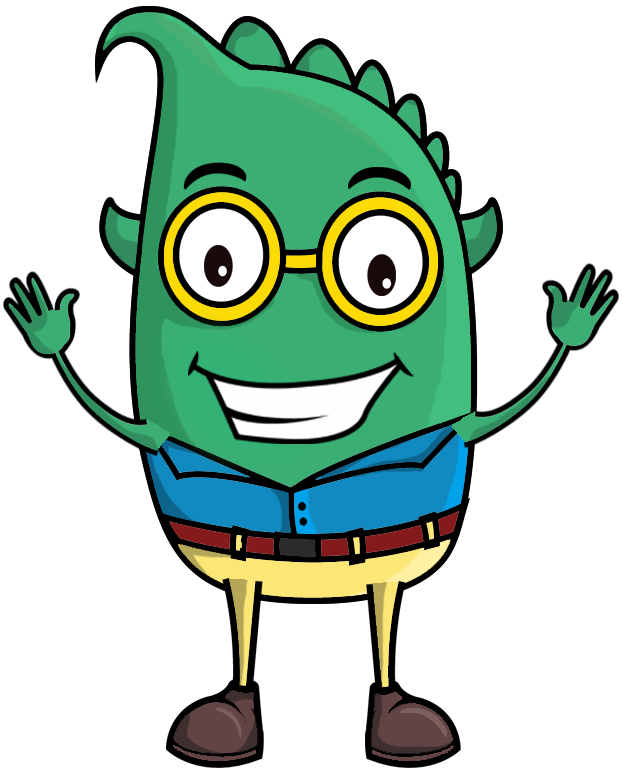
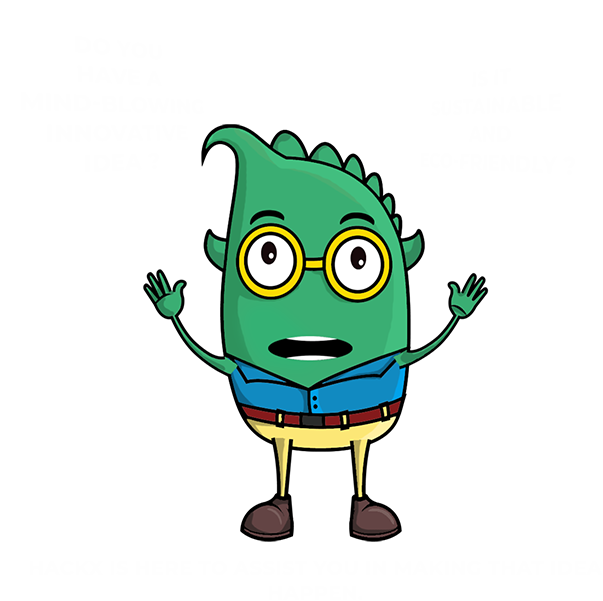
fixed some styles and changed home image

diff --git a/src/componets/Awards/index.jsx b/src/componets/Awards/index.jsx
@@ -2,22 +2,24 @@ import HeadTile from "../HeadTitle";
 import firstPlace from "../../assets/awards/firstPlace.webp"
 import secondPlace from "../../assets/awards/secondPlace.webp"
 import ThirdPalace from "../../assets/awards/thirdPlace.webp"
+import useWindowDimensions from "../../hook/getWindowDimensions";
 
 function Awards() {
+    const { width } = useWindowDimensions();
     return (
         <div id="PRIZE" className="bg-homeBg1 pt-20">
             <HeadTile title={"PRIZE"} />
             <div className="grid grid-cols-2 md:grid-cols-3 gap-2 md:gap-10 container mx-auto">
                 <div className="flex  flex-col justify-center items-center">
-                    <img src={secondPlace} alt="secondPlace" width={"50%"} height={"auto"} />
+                    <img src={secondPlace} alt="secondPlace" width={`${width >= 768 ? "50%" : "75%"}`} height={"auto"} />
                     <h1 className="text-xl text-primary">LKR 25000</h1>
                 </div>
                 <div className="flex flex-col col-span-2 md:col-span-1 justify-start items-center order-first md:order-none">
-                    <img src={firstPlace} alt="firstPlace" width={"70%"} height={"auto"} />
+                    <img src={firstPlace} alt="firstPlace" width={`${width >= 768 ? "70%" : "50%"}`} height={"auto"} />
                     <h1 className="text-2xl text-primary">LKR 25000</h1>
                 </div>
                 <div className="flex flex-col justify-center items-center">
-                    <img src={ThirdPalace} alt="ThirdPalace" width={"50%"} height={"auto"} />
+                    <img src={ThirdPalace} alt="ThirdPalace" width={`${width >= 768 ? "50%" : "75%"}`} height={"auto"} />
                     <h1 className="text-xl text-primary">LKR 25000</h1>
                 </div>
             </div>

diff --git a/src/componets/Guidelines/index.jsx b/src/componets/Guidelines/index.jsx
@@ -8,10 +8,10 @@ function Guidelines() {
     return (
         <div id="GUIDLINES" className="bg-homeBg1 pt-20">
             <HeadTile title={"GUIDELINES"} />
-            <div className="container px-3 md:px-0 mx-auto">
+            <div className="container px-1 md:px-0 mx-auto">
                 <div className="pt-10 sm:pt-10 flex justify-center">
                     <Card>
-                        <div className=" flex justify-center items-center px-4">
+                        <div className=" flex justify-center items-center px-6 md:px-14">
                             <List listItems={data} />
                         </div>
                         <div className="text-center py-5">

diff --git a/src/componets/TimeLine/index.css b/src/componets/TimeLine/index.css
@@ -120,7 +120,7 @@
     }
 
     #progress-content-section .section-content {
-        padding: 20px;
+        padding: 50px;
         text-align: left;
     }
 
@@ -183,7 +183,7 @@
 
 
     #progress-content-section {
-        width: 90%;
+        width: 97%;
         margin: auto;
         background: #273444;
         border-radius: 1rem;
@@ -194,6 +194,7 @@
     #progress-content-section .section-content {
         padding: 10px;
         text-align: left;
+        padding: 1.5rem;
     }
 
     #progress-content-section .section-content {

diff --git a/src/componets/Team/TeamCard/index.jsx b/src/componets/Team/TeamCard/index.jsx
@@ -2,7 +2,7 @@ function TeamCard() {
     return (
         <div className="flex flex-col items-center py-4">
             <img
-                className="object-cover w-32 h-32 rounded-full ring-4 ring-white"
+                className="object-cover w-44 h-44 rounded-full ring-4 ring-white"
                 src="https://images.unsplash.com/photo-1535713875002-d1d0cf377fde?ixlib=rb-1.2.1&ixid=MnwxMjA3fDB8MHxwaG90by1wYWdlfHx8fGVufDB8fHx8&auto=format&fit=crop&w=880&q=80"
                 alt=""
             />

diff --git a/src/componets/Info/Top/index.jsx b/src/componets/Info/Top/index.jsx
@@ -10,7 +10,7 @@ function Top() {
                 {/* <img src={mascottyWithTab} /> */}
                 <Slider />
             </div>
-            <div className="box-border  w-full text-white border-solid md:w-1/2 md:pl-10 md:order-none">
+            <div className="box-border  w-full text-white border-solid md:w-1/2 pl-4 md:pl-10 md:order-none">
                 <HeadTitle alignment="text-left" title={"What is hackX?"} />
                 <Paragraph
                     _className="pt-4 pb-8 m-0"

diff --git a/src/componets/Home/index.jsx b/src/componets/Home/index.jsx
@@ -12,7 +12,7 @@ function Home() {
             <div className='stars3'></div>
 
             <Layout bgColorClassName={"bg-homeBg1"}>
-                <div className="grid grid-cols-1 md:grid-cols-2 h-screen w-full  pt-20">
+                <div className="grid grid-cols-1 md:grid-cols-2 h-screen w-full  pt-20 pb-1 md:pb-2">
                     <div className='flex justify-center items-center order-2 md:order-none'>
                         <HomeLeft />
                     </div>
